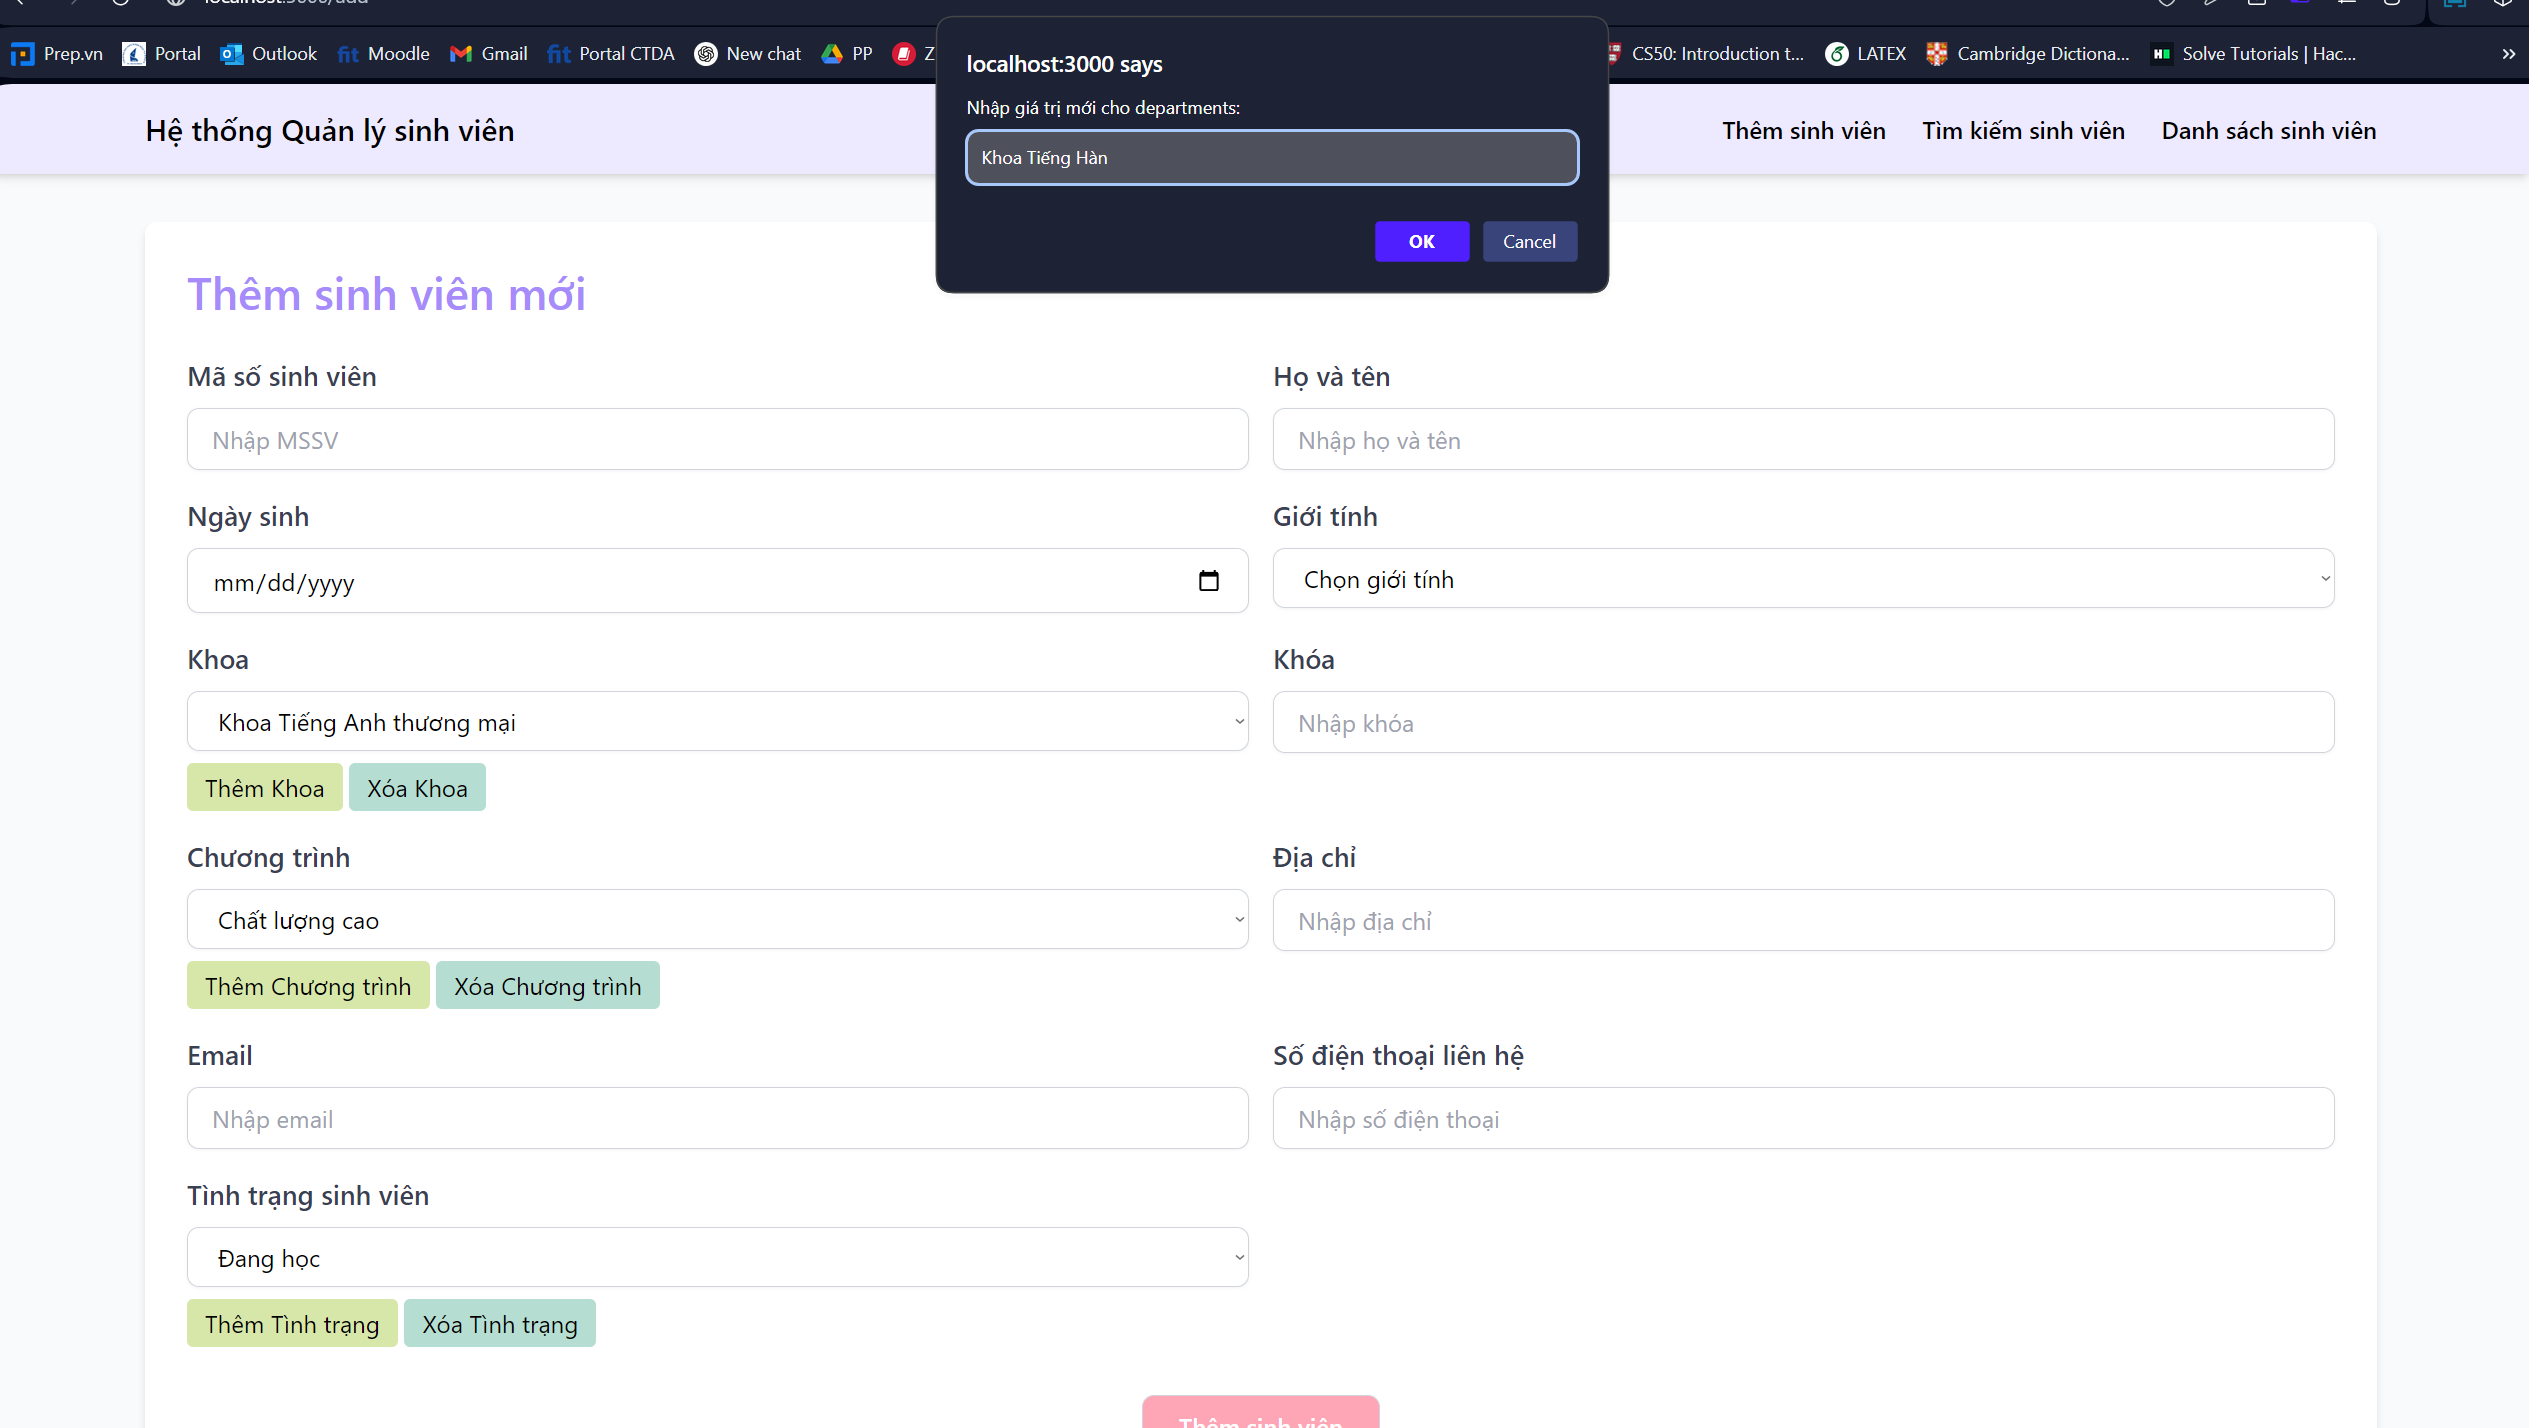
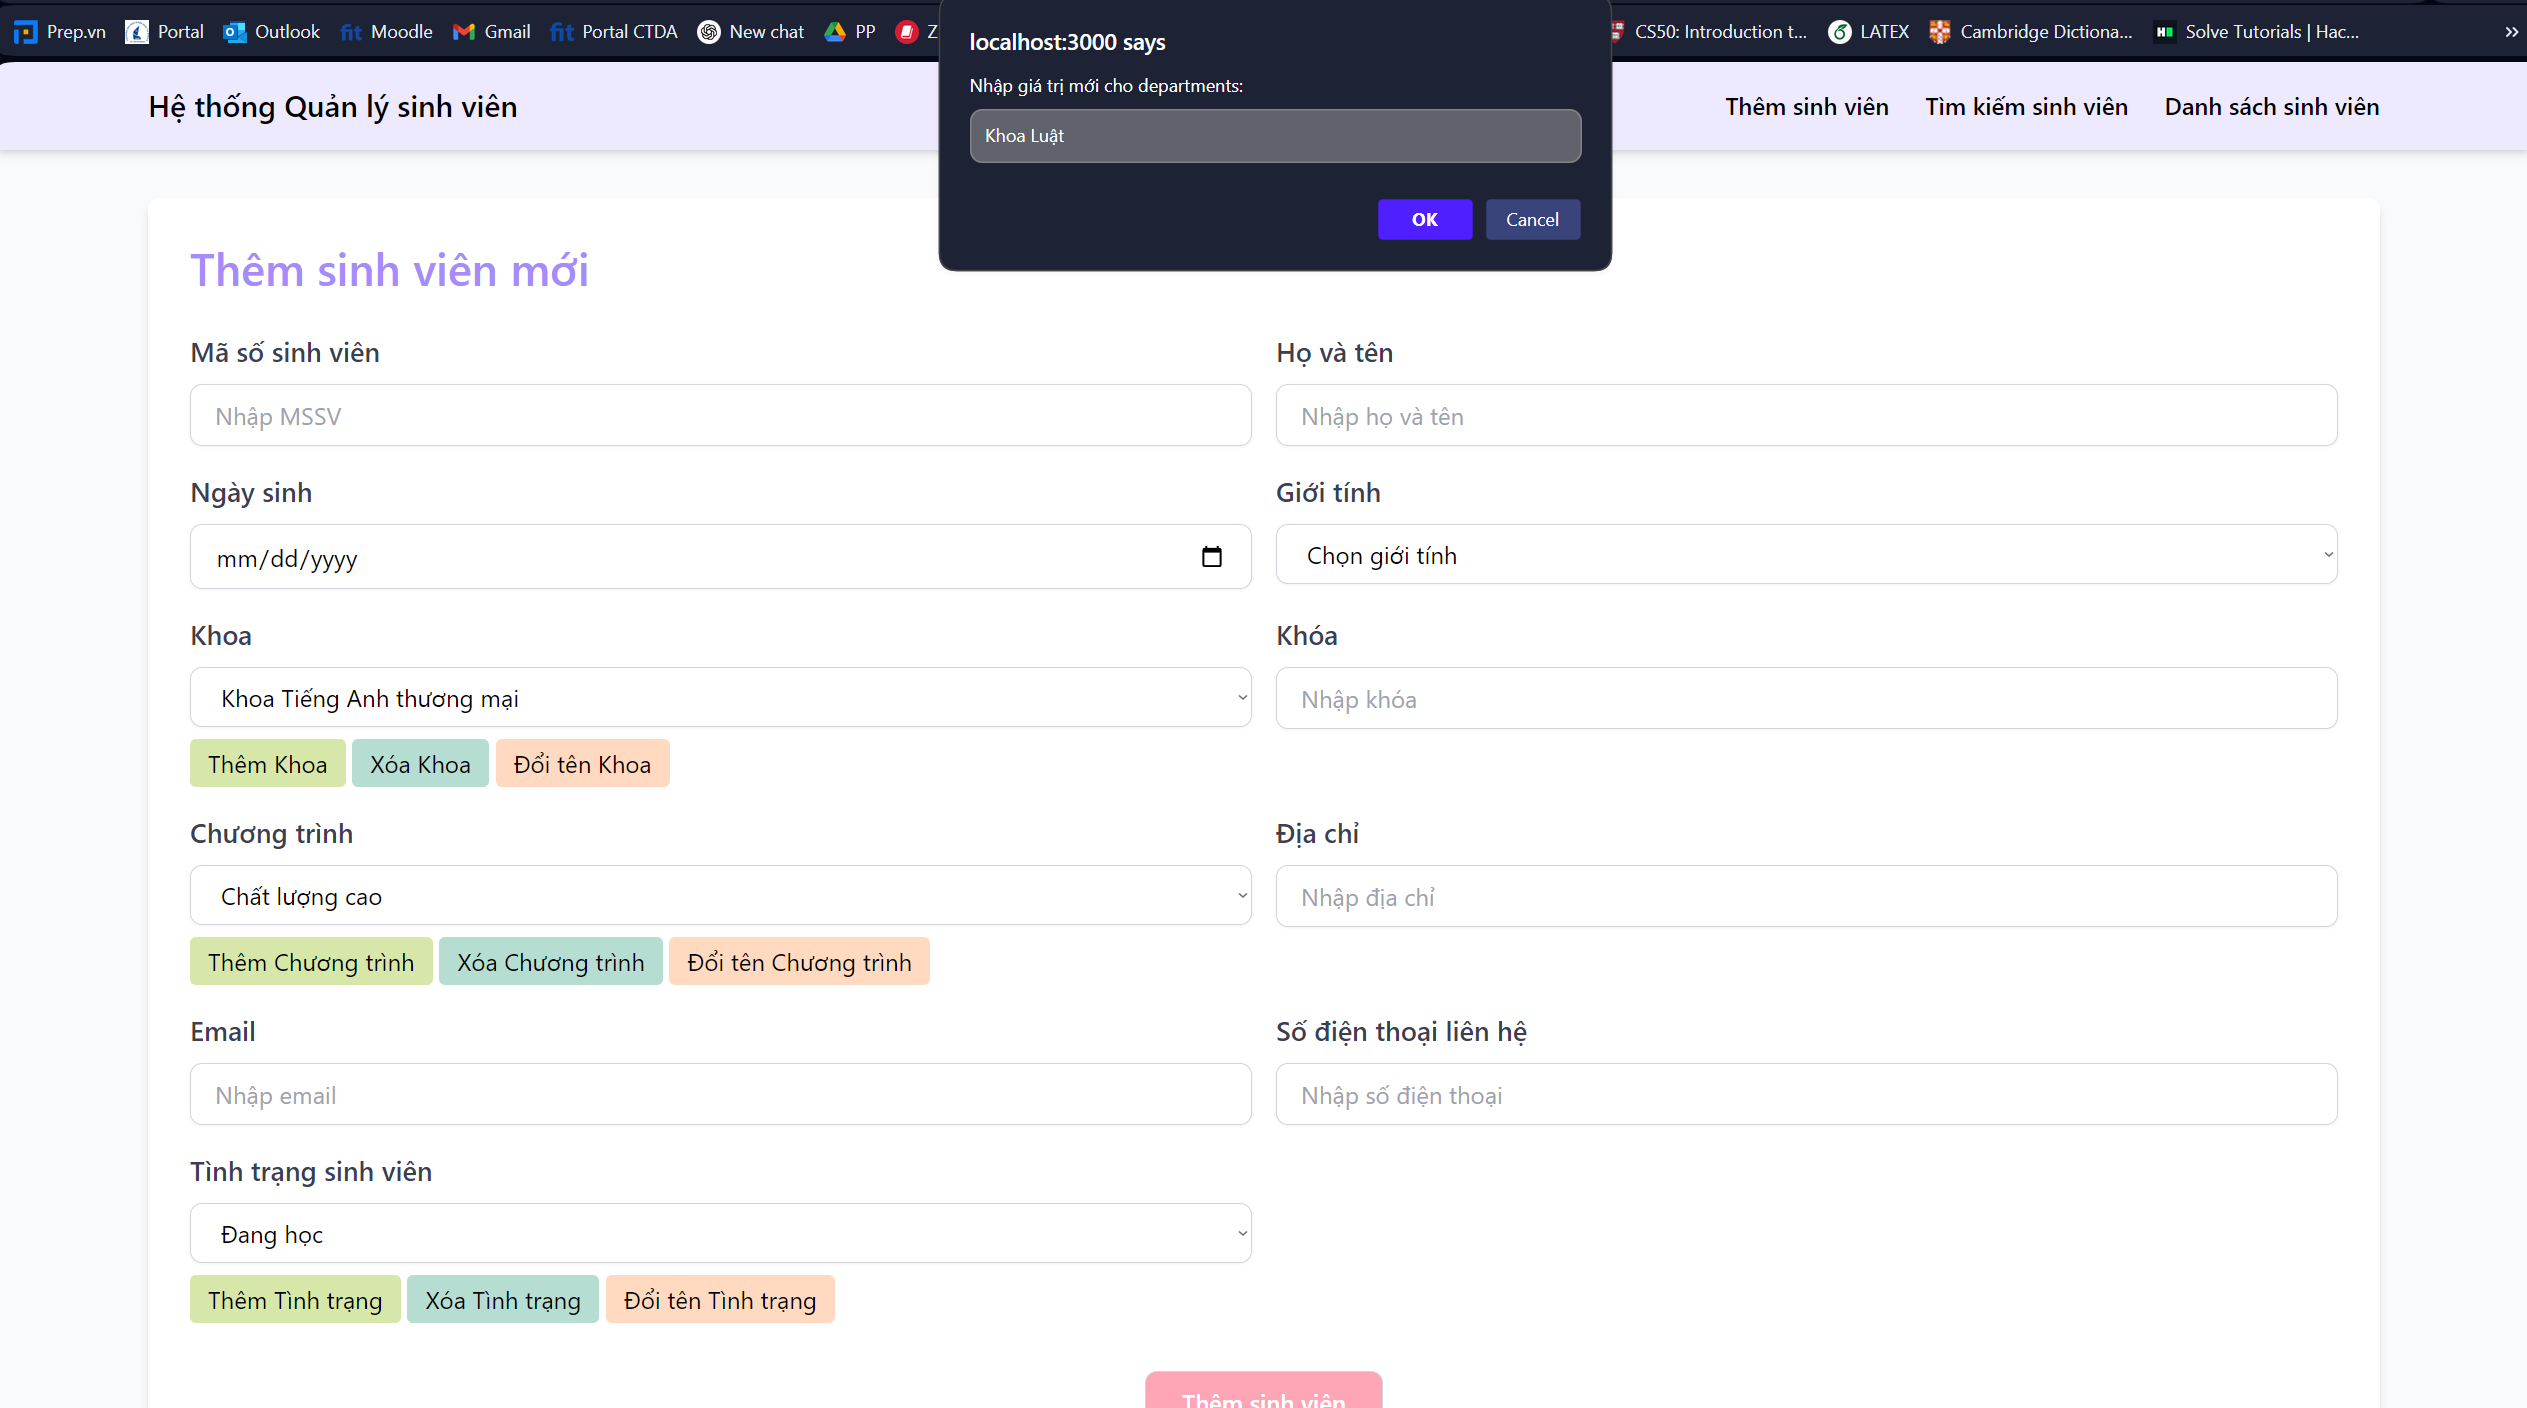
v2.0-Updated README file

diff --git a/README.md b/README.md
@@ -77,13 +77,17 @@ http://localhost:3000
 ![Lưu trữ dữ liệu](/screenshots/25.png)
 
 ### b. Cho phép đổi tên & thêm mới
-- Bổ sung thêm chức năng thêm/xóa Khoa/Chương trình/Tình trạng của sinh viên: 
-![Giao diên mới](/screenshots/12.png)
+- Bổ sung thêm chức năng thêm/xóa/sửa cột **Khoa**/**Chương trình**/**Tình trạng** của sinh viên: 
+![Giao diên mới](/screenshots/28.png)
 + Nhấn nút **"Thêm Khoa"** và nhập tên khoa muốn thêm vào.
 ![Chức năng thêm Khoa](/screenshots/13.png)
 ![Thêm Khoa thành công](/screenshots/14.png)
 + Nhấn chọn khoa và nhấn nút **"Xóa Khoa"** để xóa. 
 ![Chức năng xóa Khoa](/screenshots/15.png)
++ Nhấn chọn khoa và nhấn nút **"Đổi tên Khoa"** để đổi tên.
+![Chức năng đổi tên Khoa](/screenshots/29.png)
+![Đổi tên Khoa thành công](/screenshots/30.png)
+- Tương tự thêm/xóa/sửa với **Chương trình** và **Tình trạng** sinh viên
 
 ### c. Thêm chức năng tìm kiếm
 - Bổ sung thêm chức năng tìm kiếm theo khoa và theo khoa kèm MSSV/Họ và tên của sinh viên.
